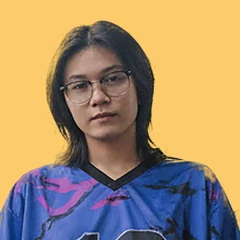
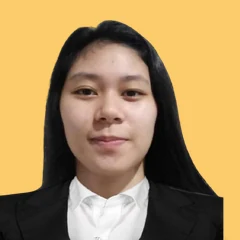
feat: update team and project data with new images and descriptions

diff --git a/src/components/Team.jsx b/src/components/Team.jsx
@@ -8,27 +8,41 @@ export default function Team() {
         <div className="head">
           <h2>The four of us</h2>
           <p>
-            A front-end and UX designer, a back-end developer, a full-stack developer and a
-            project manager — and the line each of us works by.
+            A front-end and UX designer, a back-end developer, a full-stack
+            developer and a project manager — and the line each of us works by.
           </p>
         </div>
 
         <div className="team">
           {team.map((m) => (
             <article className="member" key={m.id}>
-              <div className="member__img"><img src={m.image} alt={m.name} /></div>
+              <div className="member__img">
+                <img src={m.teamImage} alt={m.name} />
+              </div>
               <div className="member__body">
                 <div className="member__name">{m.name}</div>
                 <div className="member__role">{m.role}</div>
                 <p className="member__quote">&ldquo;{m.quote}&rdquo;</p>
                 <div className="member__links">
                   {m.socials.linkedin && (
-                    <a href={m.socials.linkedin} target="_blank" rel="noopener noreferrer"
-                       aria-label={`${m.first} on LinkedIn`}><Linkedin /></a>
+                    <a
+                      href={m.socials.linkedin}
+                      target="_blank"
+                      rel="noopener noreferrer"
+                      aria-label={`${m.first} on LinkedIn`}
+                    >
+                      <Linkedin />
+                    </a>
                   )}
                   {m.socials.github && (
-                    <a href={m.socials.github} target="_blank" rel="noopener noreferrer"
-                       aria-label={`${m.first} on GitHub`}><Github /></a>
+                    <a
+                      href={m.socials.github}
+                      target="_blank"
+                      rel="noopener noreferrer"
+                      aria-label={`${m.first} on GitHub`}
+                    >
+                      <Github />
+                    </a>
                   )}
                 </div>
               </div>

diff --git a/src/data/services.js b/src/data/services.js
@@ -27,6 +27,8 @@ const services = [
     key: "mobile",
     title: "Mobile development",
     icon: Smartphone,
+    people: ["jc", "dean", "colin"],
+    credit: "Built by John Carlo, Colin and Dean",
     tone: "gold",
     body: "Native and cross-platform mobile applications that deliver exceptional user experiences on the devices your users actually carry.",
   },
@@ -35,7 +37,14 @@ const services = [
     title: "Database management",
     icon: Database,
     body: "MySQL work focused on secure, reliable, optimised data handling — from schema design through performance tuning and long-term maintenance.",
-    tags: ["Design & modeling", "Migration & integration", "Performance tuning", "Backup & recovery", "Security & access", "Ongoing maintenance"],
+    tags: [
+      "Design & modeling",
+      "Migration & integration",
+      "Performance tuning",
+      "Backup & recovery",
+      "Security & access",
+      "Ongoing maintenance",
+    ],
     people: ["colin", "dean"],
     credit: "Handled by Colin and Dean",
     image: svcData,
@@ -45,9 +54,18 @@ const services = [
     key: "academic",
     title: "Academic & paperwork services",
     icon: FileText,
+    people: ["ransh"],
+    credit: "Handled by Ransh",
     tone: "gold",
     body: "Expert assistance with thesis and capstone papers, academic papers, reviews, essays, presentations and technical papers — researched, structured and referenced properly.",
-    tags: ["Thesis writing", "Research papers", "Feasibility studies", "Capstone projects", "Dissertations", "Technical documentation"],
+    tags: [
+      "Thesis writing",
+      "Research papers",
+      "Feasibility studies",
+      "Capstone projects",
+      "Dissertations",
+      "Technical documentation",
+    ],
     image: svcDocs,
     imageAlt: "Academic and research paper layouts",
   },

diff --git a/src/data/team.js b/src/data/team.js
@@ -1,6 +1,7 @@
 import jc from "../assets/portraits/jc.webp";
 import colin from "../assets/portraits/colin.webp";
 import sharmaine from "../assets/portraits/sharmaine.webp";
+import sharmaine1 from "../assets/portraits/sharmaine1.webp";
 import dean from "../assets/portraits/dean.webp";
 import avJc from "../assets/avatars/av-jc.webp";
 import avColin from "../assets/avatars/av-colin.webp";
@@ -16,6 +17,7 @@ const team = [
     quote: "Design with purpose, build with passion.",
     image: jc,
     avatar: avJc,
+    teamImage: jc,
     socials: {
       linkedin: "https://linkedin.com/in/john-carlo-goco-a8768a384",
       github: "https://github.com/Mamapoco2",
@@ -29,6 +31,7 @@ const team = [
     quote: "Code is like humor. When you have to explain it, it’s bad.",
     image: colin,
     avatar: avColin,
+    teamImage: colin,
     socials: {
       linkedin: "https://www.linkedin.com/in/colin-arias-b8203236b/",
       github: "https://github.com/ColinArias23",
@@ -38,9 +41,10 @@ const team = [
     id: "ransh",
     name: "Ransh Dy",
     first: "Ransh",
-    role: "Project Manager",
+    role: "Quality Assurance",
     quote: "Talk is cheap. Show me the code.",
     image: sharmaine,
+    teamImage: sharmaine1,
     avatar: avSharmaine,
     socials: {
       linkedin: "https://www.linkedin.com/in/sharmaine-banquiles-404320322/",
@@ -55,6 +59,7 @@ const team = [
     quote: "Design with purpose, build with passion.",
     image: dean,
     avatar: avDean,
+    teamImage: dean,
     socials: {
       linkedin: "https://ph.linkedin.com/in/dean-andrew-zaballero-59a937273",
       github: "https://github.com/feyded",

diff --git a/src/data/projects.js b/src/data/projects.js
@@ -12,6 +12,41 @@
      href: "https://example.com",      // optional
    }
    --------------------------------------------------------------- */
-const projects = [];
+
+import work1 from "../assets/work/Work1.webp";
+import work2 from "../assets/work/Work2.webp";
+import work3 from "../assets/work/Work3.webp";
+
+const projects = [
+  {
+    title: "BookClub",
+    summary:
+      "A web application that allows users to create and manage book clubs, share book recommendations, and discuss books with other members.",
+    services: ["Web development", "Database management"],
+    tech: ["ReactJS", "NodeJS", "MySQL"],
+    people: ["ransh"],
+    image: work1,
+    href: "https://book-cl.netlify.app/",
+  },
+  {
+    title: "ads",
+    summary:
+      "A web application that allows users to create and manage book clubs, share book recommendations, and discuss books with other members.",
+    services: ["Web development", "Database management"],
+    tech: ["ReactJS", "NodeJS", "MySQL"],
+    people: ["ransh"],
+    image: work2,
+    href: "https://n-hire.netlify.app/",
+  },
+  {
+    title: "BuildCraft",
+    summary:
+      "A web application that allows users to create and manage book clubs, share book recommendations, and discuss books with other members.",
+    services: ["Web development", "Database management"],
+    tech: ["ReactJS"],
+    people: ["jc"],
+    image: work3,
+  },
+];
 
 export default projects;
